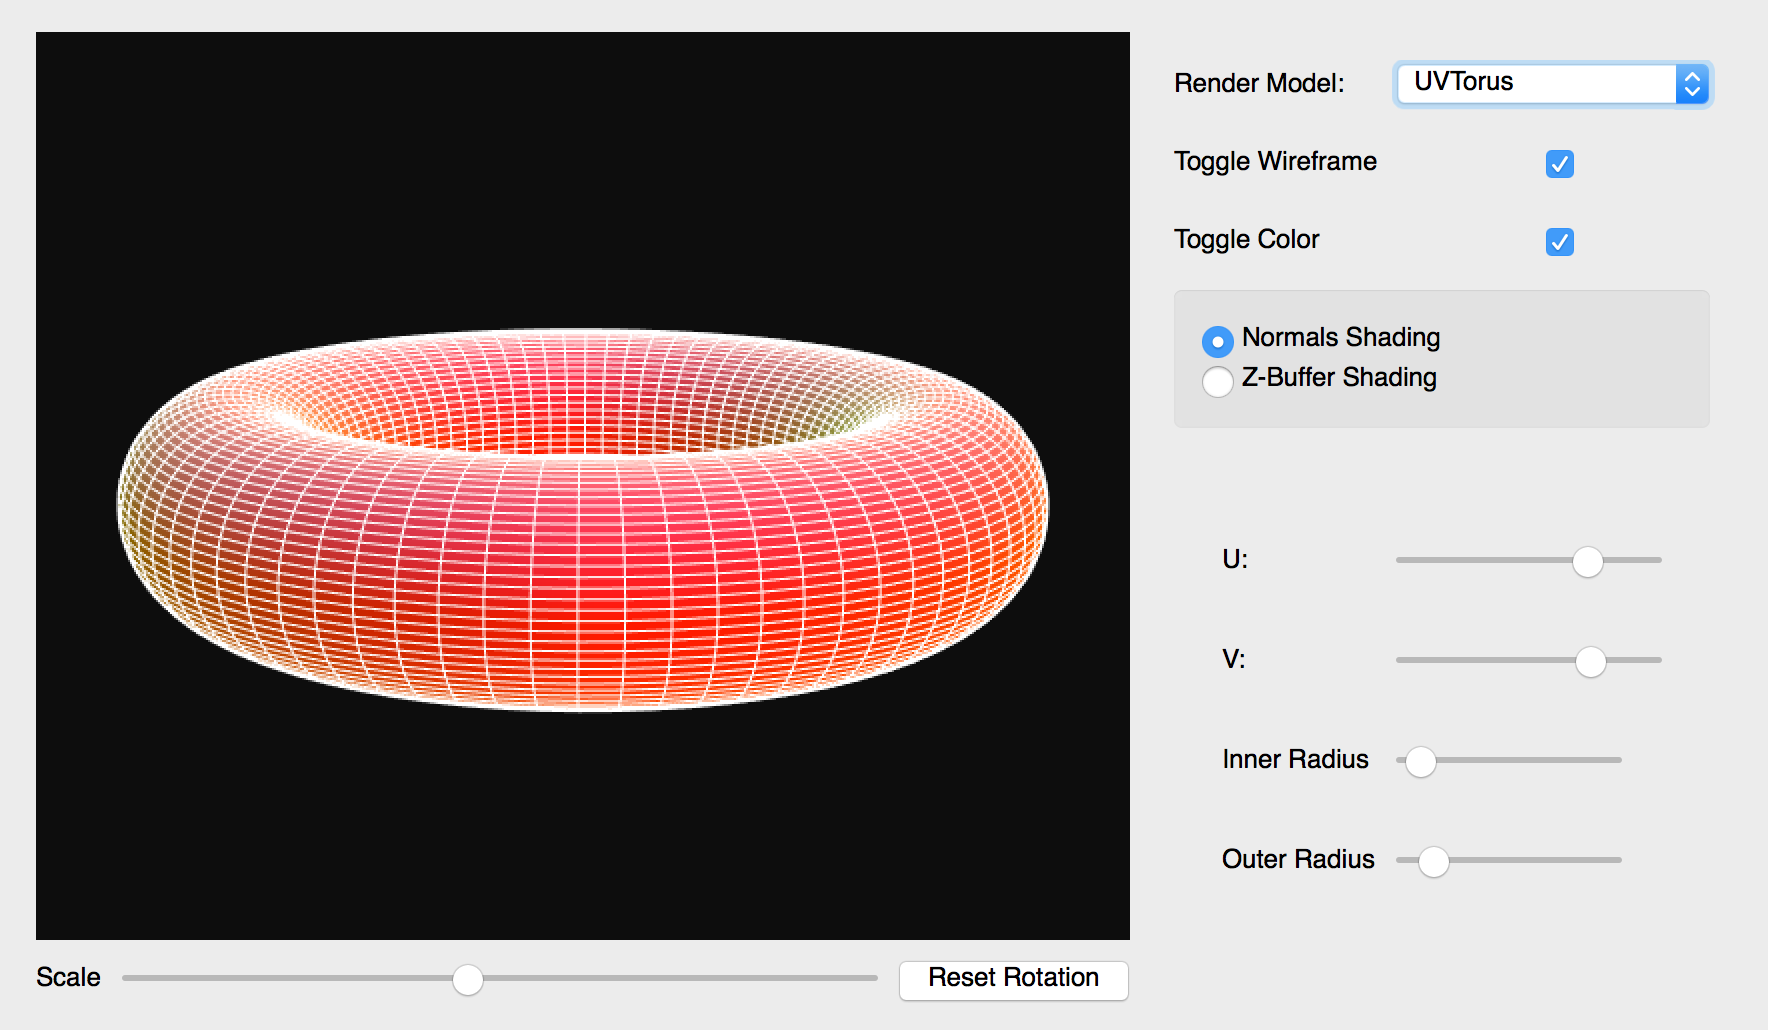
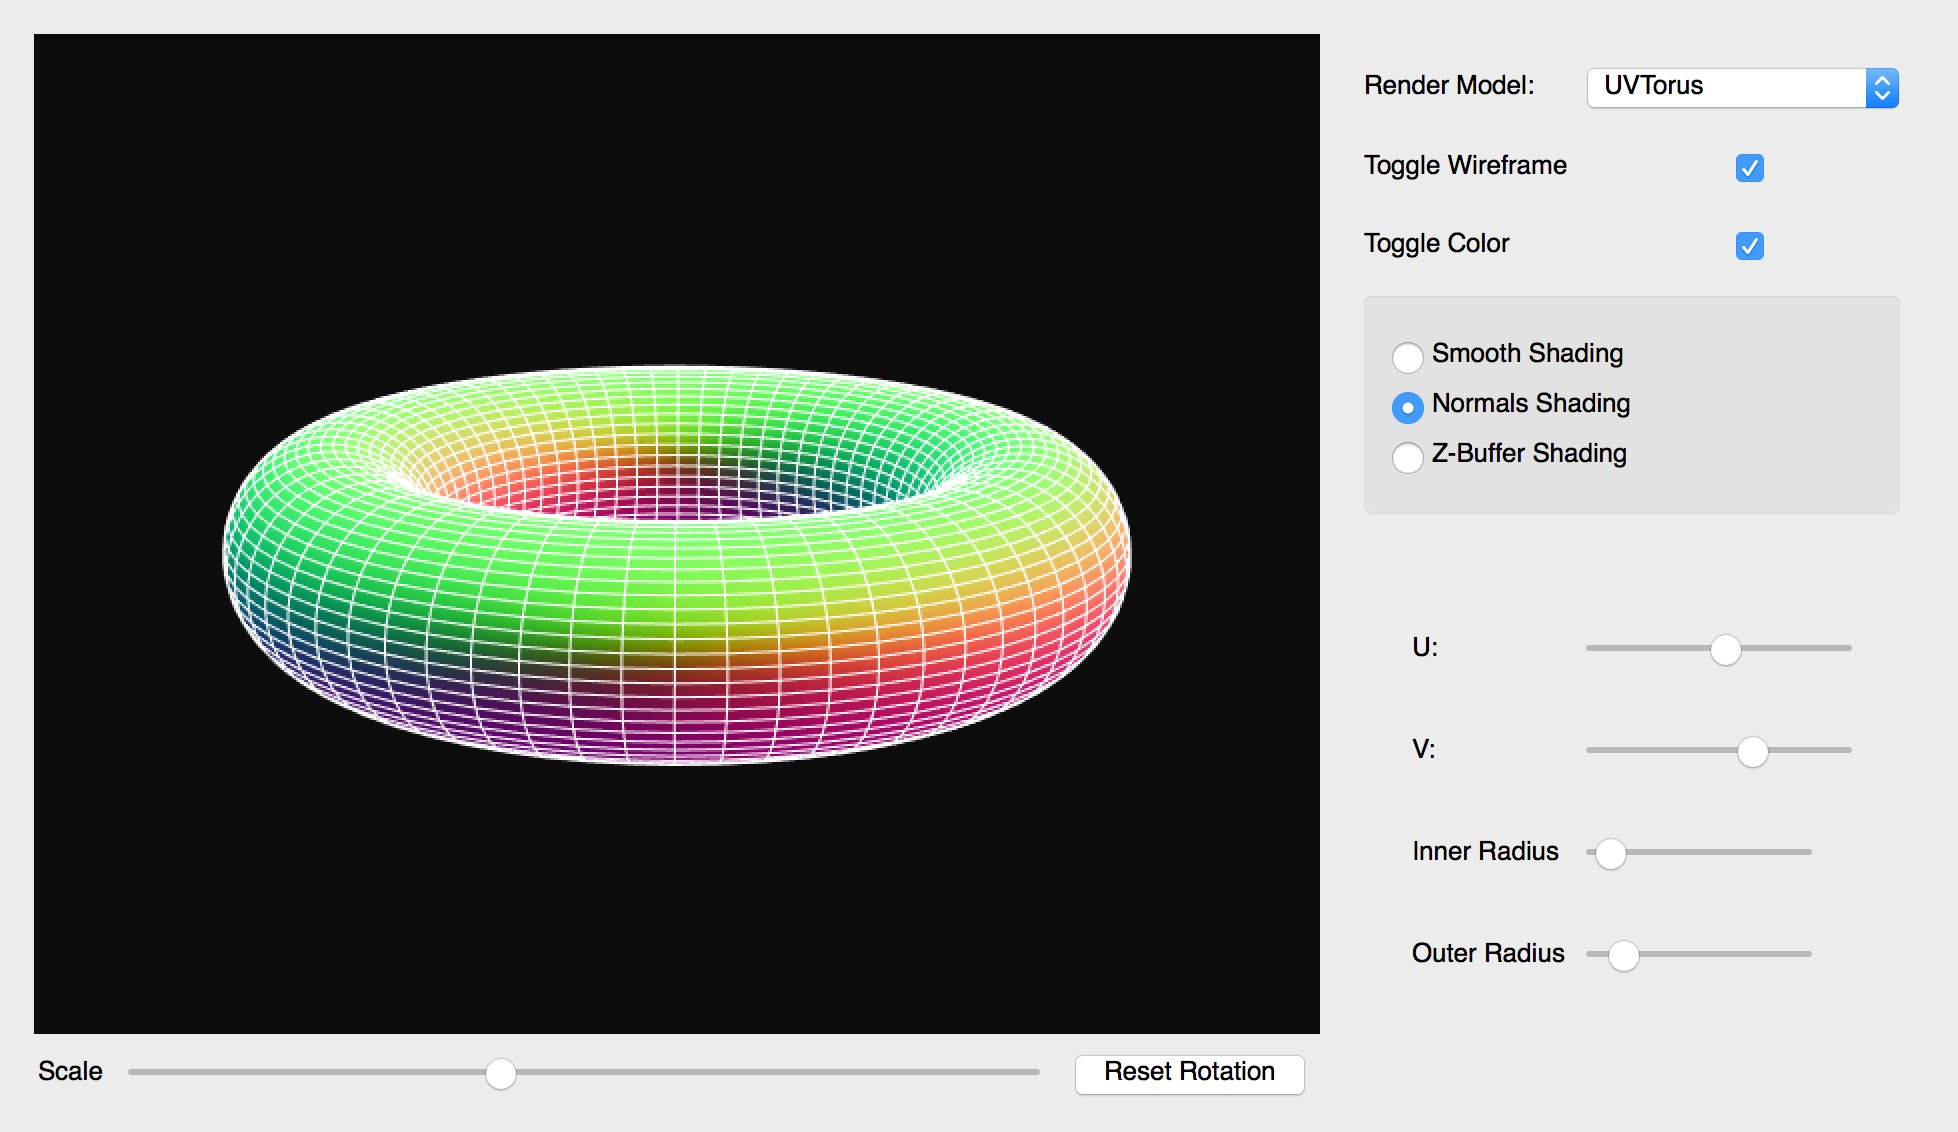
update screenshots and readme

diff --git a/configs.py b/configs.py
@@ -55,4 +55,4 @@ class Global(object):
 
     CLEAR_COLOR = (.05, .05, .05, 1.)
     WIREFRAME_COLOR = (1,1,1,1)
-    SOLID_COLOR = (0,0,0,1)
+    SOLID_COLOR = (.5,.5,.5,1)

diff --git a/README.md b/README.md
@@ -21,10 +21,14 @@ I am also trying my best to comment methods and classes with [Numpy](https://git
 
 ## Screenshots
 
+### UV Gui
 ![GUI](https://raw.githubusercontent.com/cpdugenio/frightenedrabbit/master/screenshots/GUI.png)
 
-![Cow with normals shader](https://raw.githubusercontent.com/cpdugenio/frightenedrabbit/master/screenshots/Cow_Normals_Shader.png)
+### Cow, Lighting
+![Cow with normals shader](https://raw.githubusercontent.com/cpdugenio/frightenedrabbit/master/screenshots/Cow_Lights_Shader.png)
 
-![Bunny with z-buffer shader](https://raw.githubusercontent.com/cpdugenio/frightenedrabbit/master/screenshots/Bunny_ZDepth_Shader.png)
+### Bunny, Z-Buffer Shader
+![Bunny with z-buffer shader](https://raw.githubusercontent.com/cpdugenio/frightenedrabbit/master/screenshots/Bunny_ZBuffer_Shader.png)
 
+### Bunny, Wireframe + Normals Shader
 ![Bunny with normals shader](https://raw.githubusercontent.com/cpdugenio/frightenedrabbit/master/screenshots/Bunny_Normals_Shader.png)
